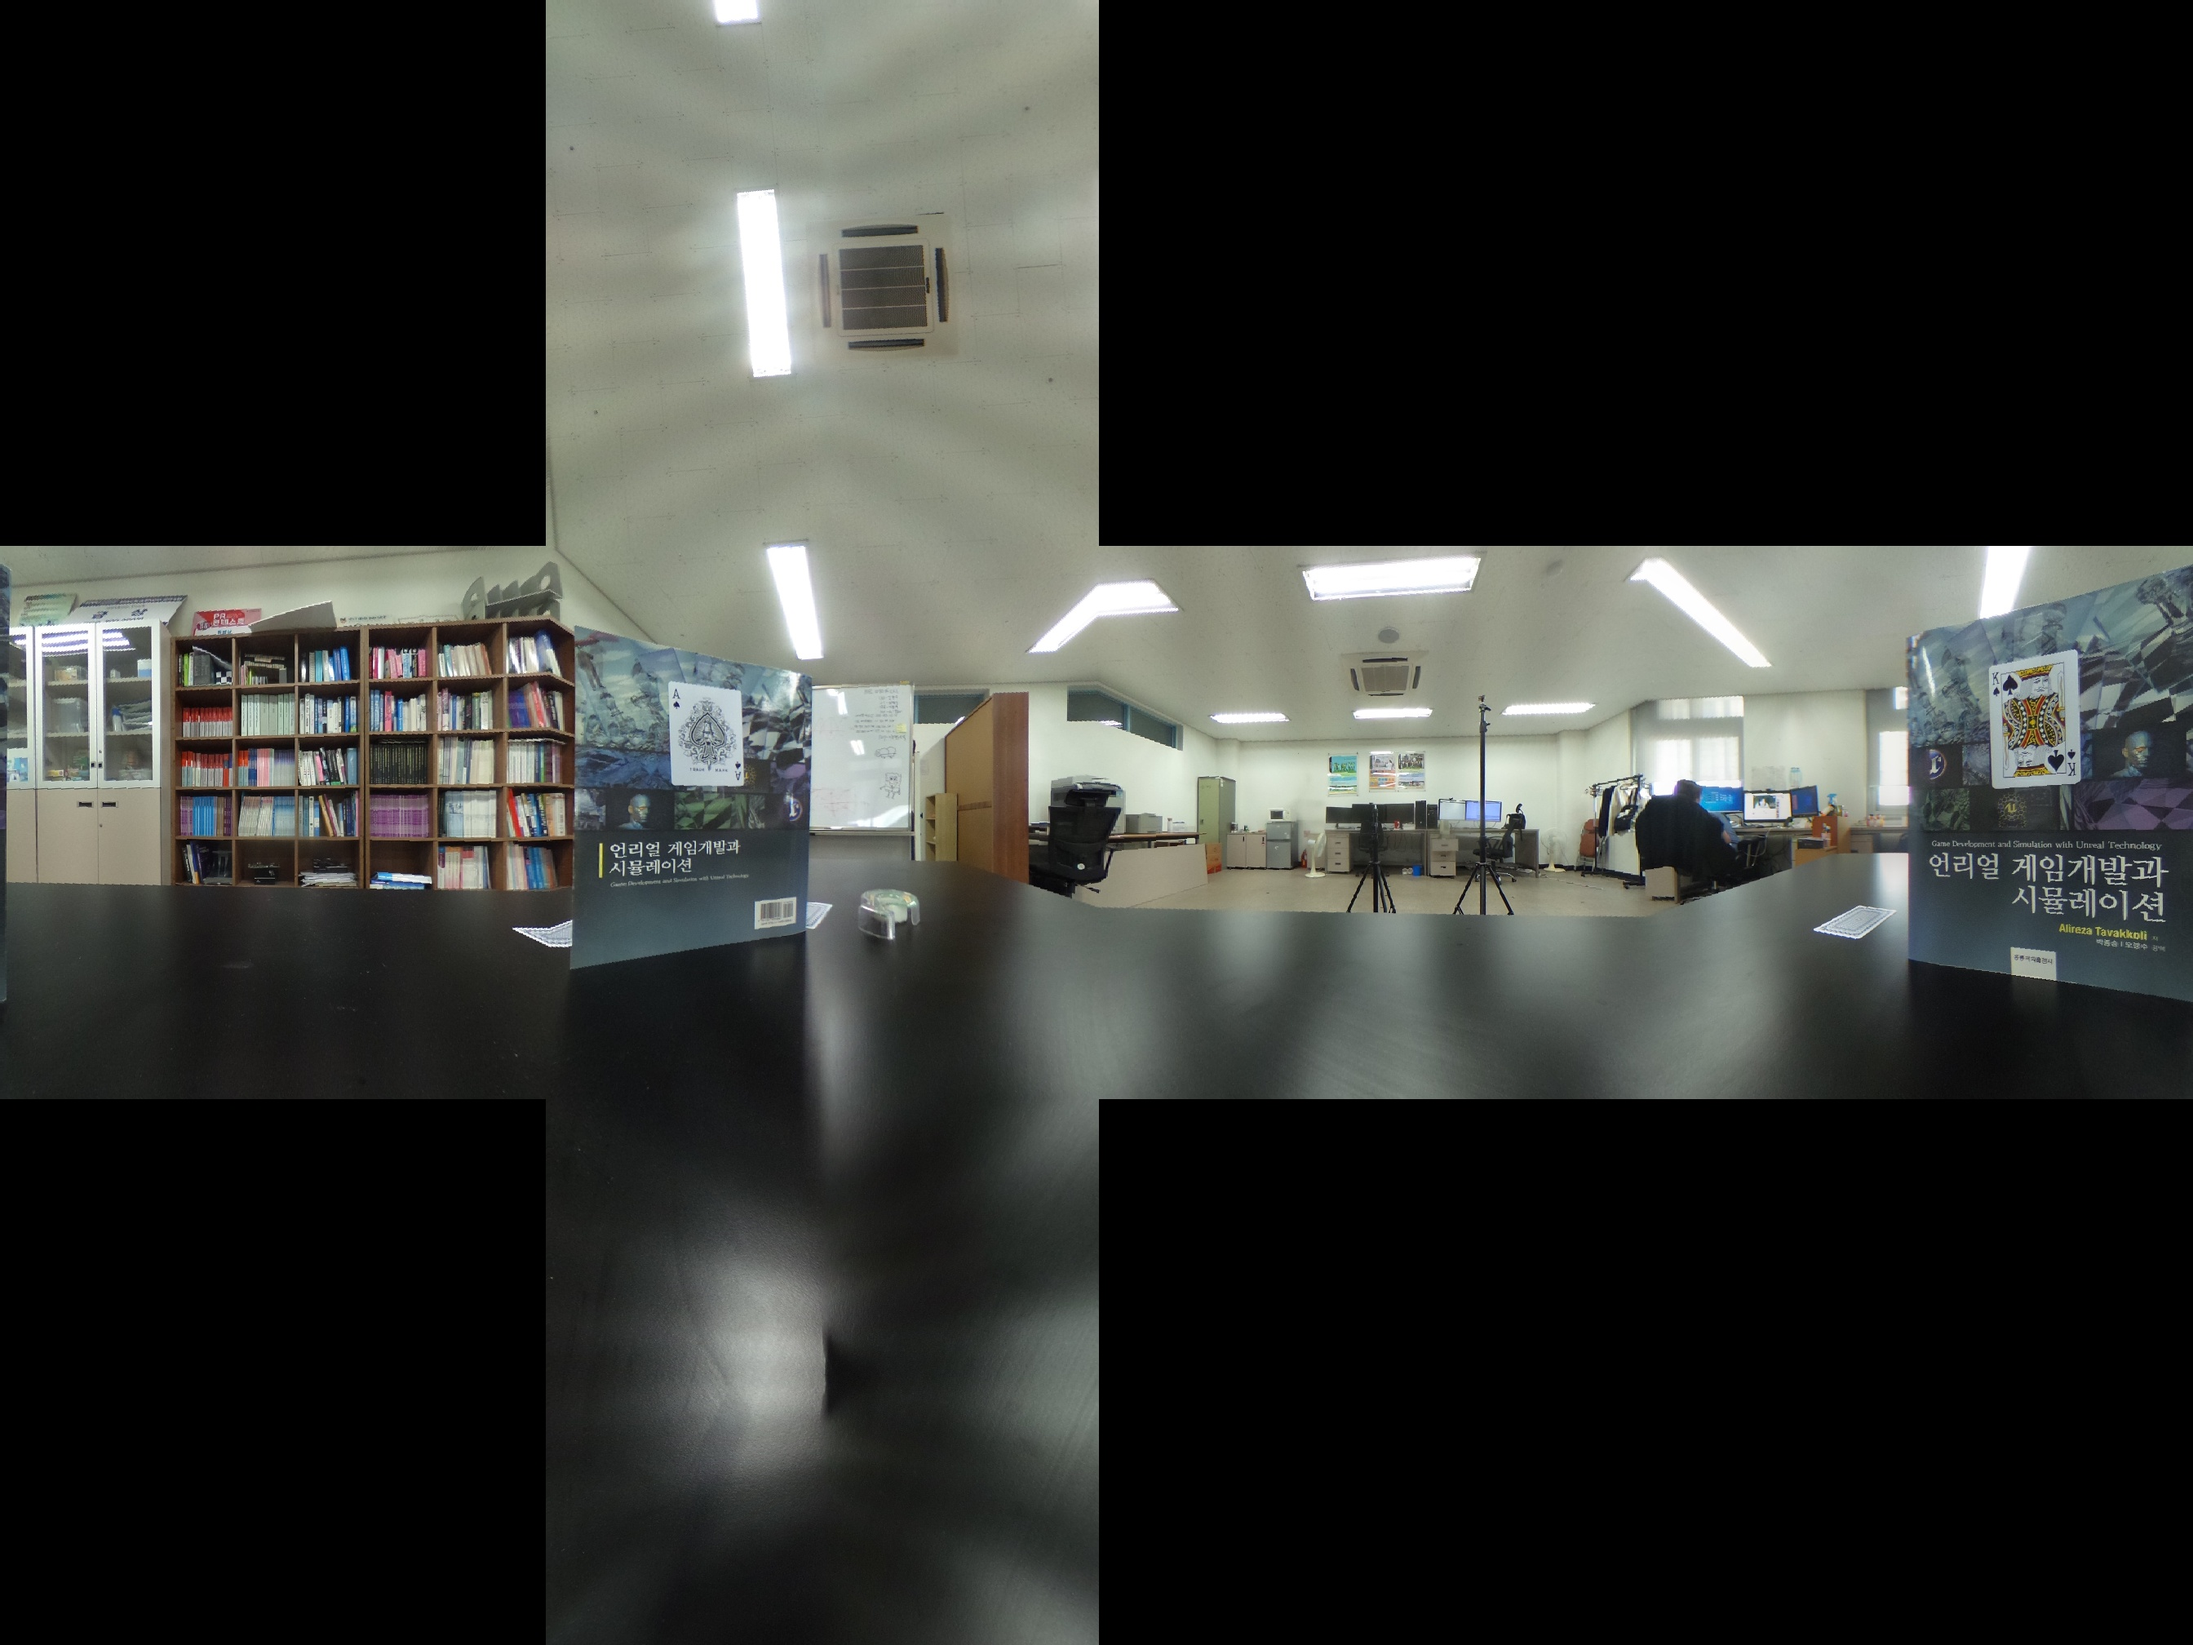
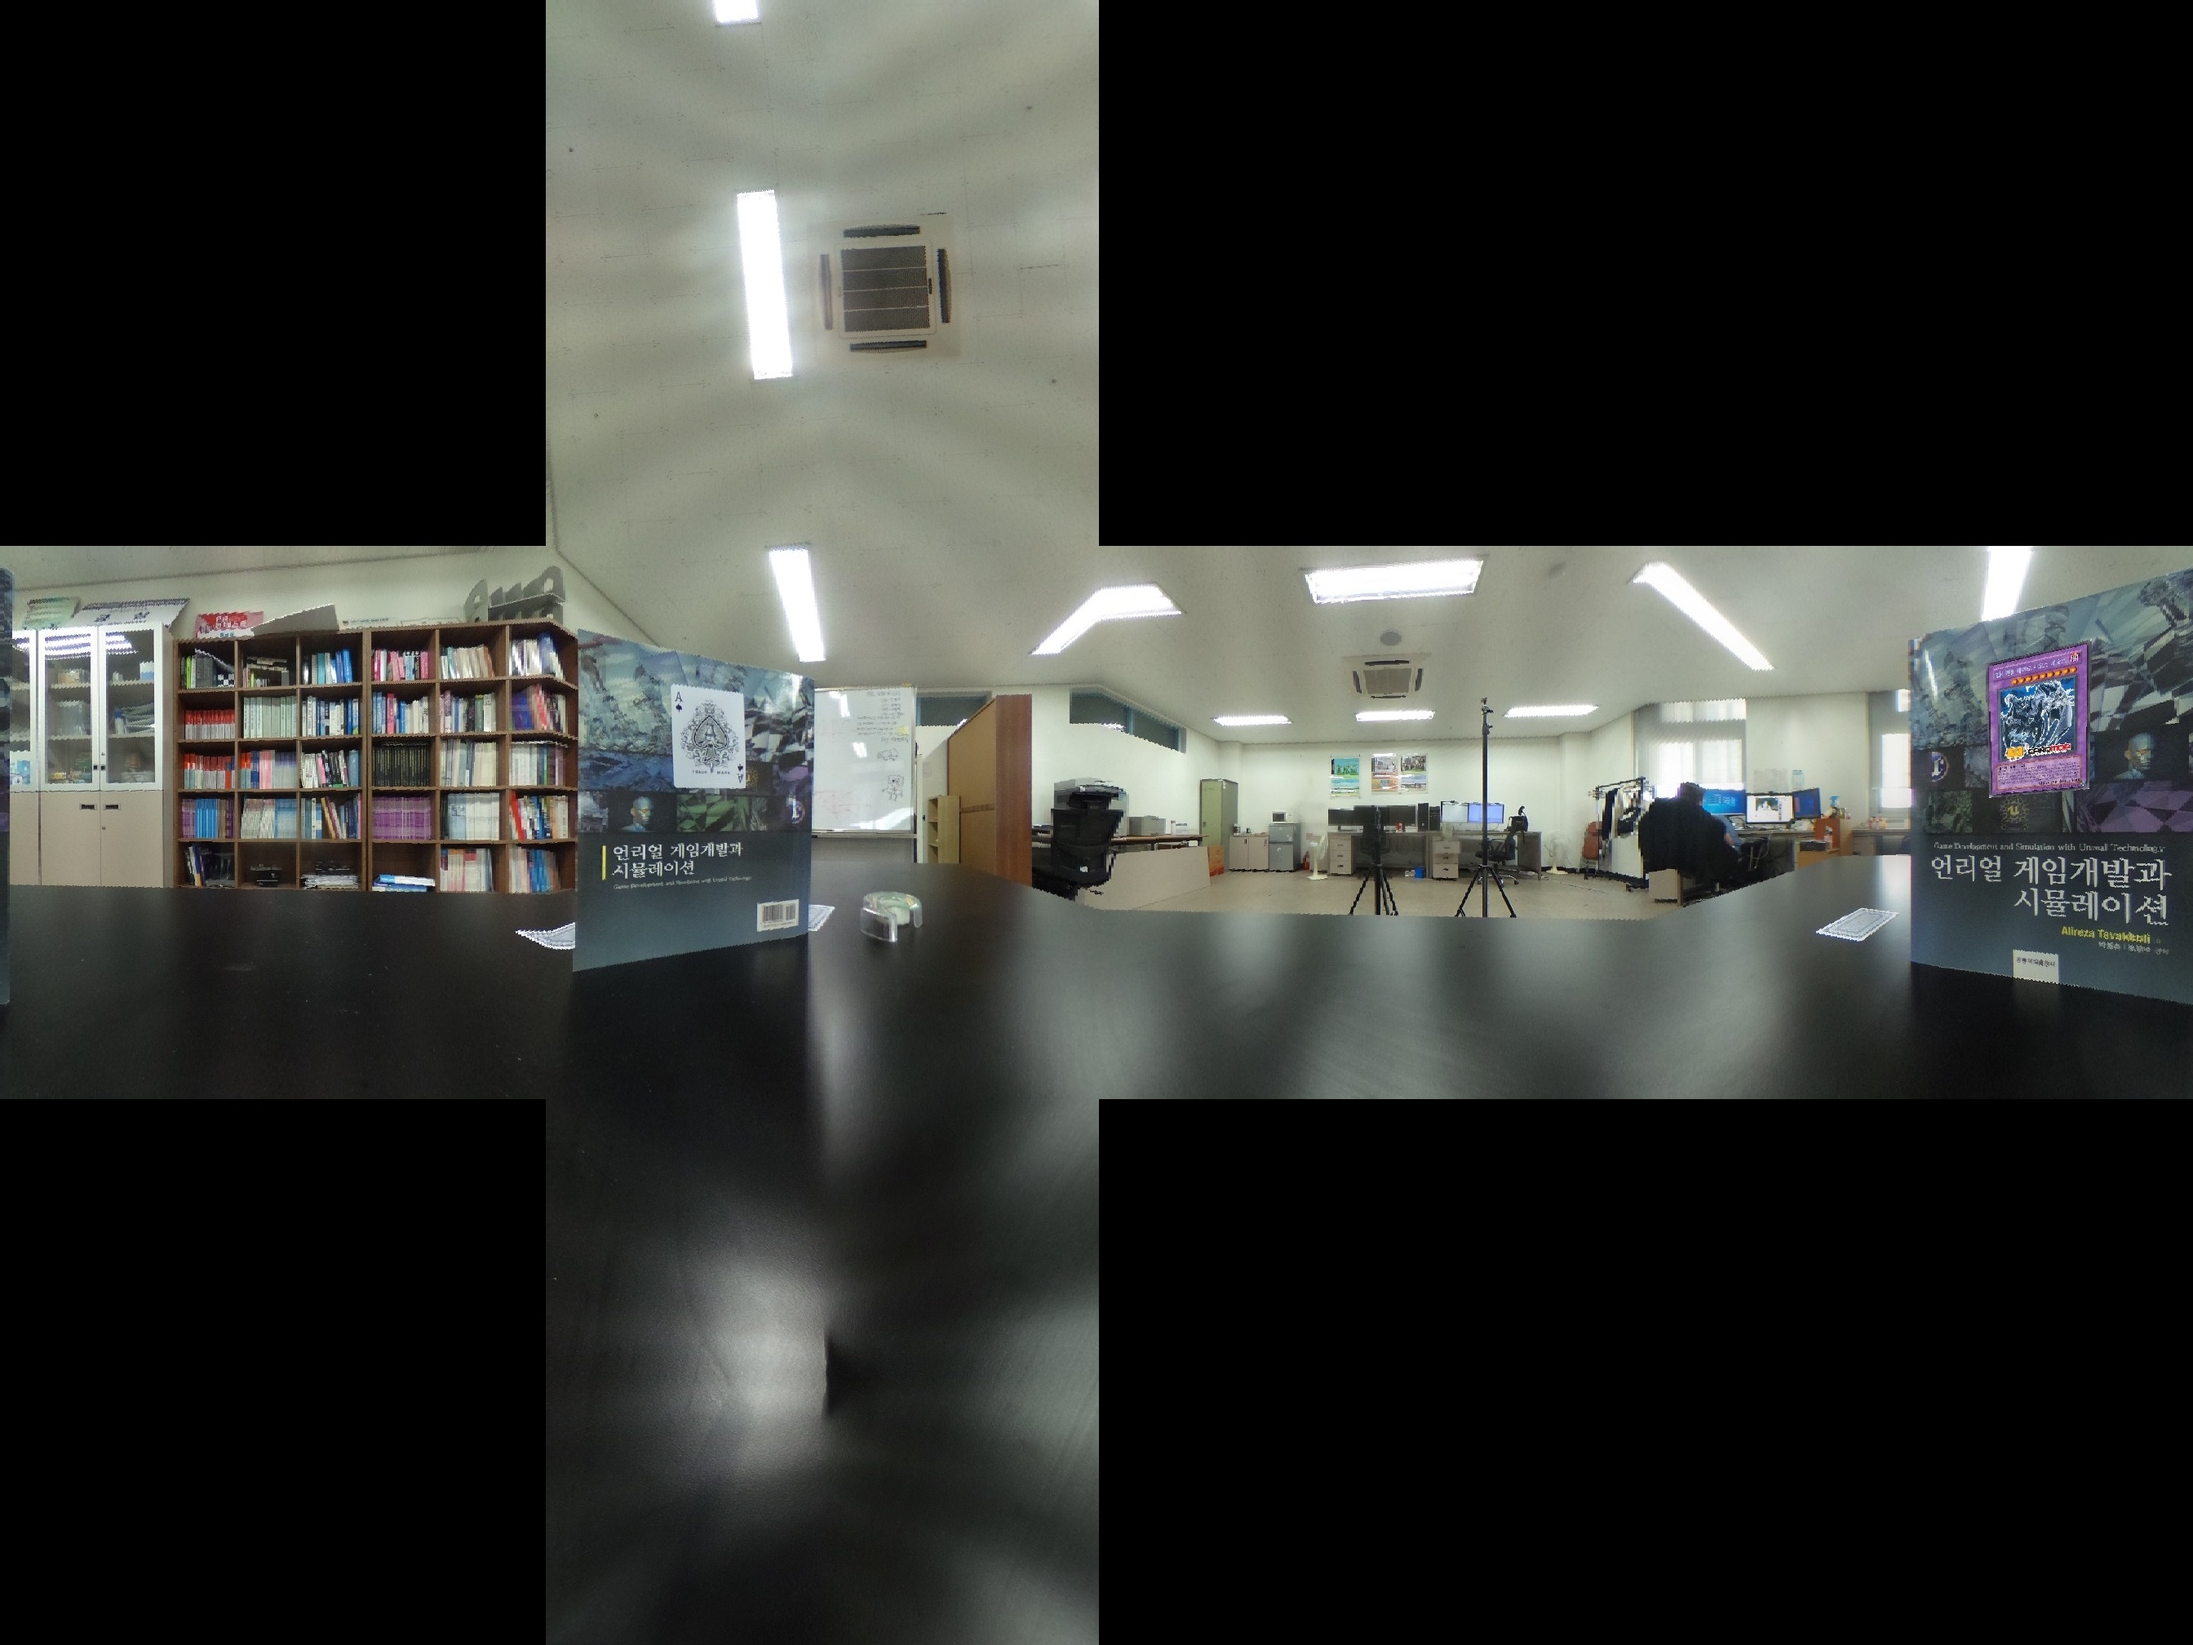
code update

diff --git a/OpenCV/OpenCV.cpp b/OpenCV/OpenCV.cpp
@@ -25,6 +25,18 @@ int64 work_begin = 0;
 int64 work_end = 0;
 
 /*
+	게임 플레이
+*/
+int gameTurns = 2;
+int turn = 0;
+
+struct Player
+{
+	int hp = 30;
+	int damage = 10;
+};
+
+/*
     뷰 영상 출력을 위한 구조체
 */
 struct Axis
@@ -52,18 +64,9 @@ std::vector<Point2f> inverse_corner;
 double yAxisRotate = 0;
 double zAxisRotate = 0;
 
-
-int FrontX = 0, FrontY = 0;
-int BackX = 0, BackY = 0;
-int LeftX = 0, LeftY = 0;
-int RightX = 0, RightY = 0;
-int TopX = 0, TopY = 0;
-int BottomX = 0, BottomY = 0;
-
 vector<Mat> cubemapface[6]; // Back, Left, Front, Right, Top, Bottom
 int faceIndex;
 int indexX, indexY;
-
 
 Axis getNearPixel(Mat Img, int x, int y);
 Mat remapImage(Mat imgIn);
@@ -134,7 +137,6 @@ Mat remapImage(Mat imgIn)
 	return RemapImg;
 
 }
-
 
 /*
 	Generate View
@@ -311,7 +313,6 @@ AxisDouble CalcCubicXYZ(double x, double y, double z)
 
 	return axis;
 }
-
 
 /*
 	1. Spherical -> Cubemap
@@ -509,6 +510,7 @@ Mat CvtCub2Sph(Mat* cube, Mat* original) {
 	{
 		cubemapface->at(i) = remapImage(cubemapface->at(i));
 	}
+	spherical = remapImage(spherical);
 	return spherical;
 }
 Mat CvtSph2Cub(Mat* pano) {
@@ -769,159 +771,196 @@ static Mat drawGoodMatches(
 
 	return img_matches;
 }
+
+void Render()
+{
+	Player A, B;
+	B.hp = 20;
+
+	while (true) {
+		Mat img_text;
+		char attack[30];
+		char defense[30];
+		cubemapface->at(3).copyTo(img_text);
+
+		sprintf_s(attack, "A Attack");
+		sprintf_s(defense, "B Defense");
+
+		putText(img_text, attack, Point(img_text.cols / 12, img_text.rows / 4), 0, 1, Scalar(0, 0, 0), 2, 8);
+		putText(img_text, defense, Point(img_text.cols / 12, img_text.rows / 6), 0, 1, Scalar(0, 0, 0), 2, 8);		
+
+		imageShow("Screen", 300, 300, img_text);
+		imwrite("Screen.jpg", img_text);
+
+		waitKey(0);
+	}
+}
+
 ////////////////////////////////////////////////////
 // This program demonstrates the usage of SURF_OCL.
 // use cpu findHomography interface to calculate the transformation matrix
 int main(int argc, char* argv[])
 {
+	while (turn < gameTurns) {
+		UMat img1, img2;
+		Mat img;
+		Mat srcImage;
+		Mat temp;
+		Mat tempImg;
+		std::string leftName;
 
-	UMat img1, img2;
-
-    /* 파노라마 이미지 불러오기 */
-    Mat img = imread("Panorama2.jpg"); //자신이 저장시킨 이미지 이름이 입력되어야 함, 확장자까지
-    Mat srcImage; 
-    cv::resize(img, srcImage, Size(img.cols * 0.5f, img.rows * 0.5f), 0, 0);
-    
-     /* Mat 선언 */
-    Mat SphericalToCubemap = CvtSph2Cub(&srcImage);
-
-	std::string outpath = "output.jpg";
-    std::string result = "result.jpg";
-	std::string spre = "sph.jpg";
-
-	std::string leftName = "ATrump.jpg";
-
-	imread(leftName, IMREAD_COLOR).copyTo(img1);
-	if (img1.empty())
-	{
-		std::cout << "Couldn't load " << leftName << std::endl;
-		return EXIT_FAILURE;
-	}
-
-    imwrite("scene.jpg", SphericalToCubemap);
-
-	std::string rightName = "scene.jpg";
-	imread(rightName, IMREAD_COLOR).copyTo(img2);
-	if (img2.empty())
-	{
-		std::cout << "Couldn't load " << rightName << std::endl;
-		return EXIT_FAILURE;
-	}
-
-	double surf_time = 0.;
-
-	//declare input/output
-	std::vector<KeyPoint> keypoints1, keypoints2;
-	std::vector<DMatch> matches;
-
-	UMat _descriptors1, _descriptors2;
-	Mat descriptors1 = _descriptors1.getMat(ACCESS_RW),
-		descriptors2 = _descriptors2.getMat(ACCESS_RW);
-
-	//instantiate detectors/matchers
-	SURFDetector surf;
-	SURFMatcher<BFMatcher> matcher;
-
-	//-- start of timing section
-
-	for (int i = 0; i <= LOOP_NUM; i++)
-	{
-		if (i == 1) workBegin();
-		surf(img1.getMat(ACCESS_READ), Mat(), keypoints1, descriptors1);
-		surf(img2.getMat(ACCESS_READ), Mat(), keypoints2, descriptors2);
-		matcher.match(descriptors1, descriptors2, matches);
-	}
-	workEnd();
-	std::cout << "FOUND " << keypoints1.size() << " keypoints on first image" << std::endl;
-	std::cout << "FOUND " << keypoints2.size() << " keypoints on second image" << std::endl;
-
-	surf_time = getTime();
-	std::cout << "SURF run time: " << surf_time / LOOP_NUM << " ms" << std::endl << "\n";
-
-
-	std::vector<Point2f> corner;
-	Mat img_matches = drawGoodMatches(img1.getMat(ACCESS_READ), img2.getMat(ACCESS_READ), keypoints1, keypoints2, matches, corner);
-	line(img_matches, inverse_corner[0], inverse_corner[1], Scalar(0, 255, 0), 2, LINE_AA);
-	line(img_matches, inverse_corner[1], inverse_corner[2], Scalar(0, 255, 0), 2, LINE_AA);
-	line(img_matches, inverse_corner[2], inverse_corner[3], Scalar(0, 255, 0), 2, LINE_AA);
-	line(img_matches, inverse_corner[3], inverse_corner[0], Scalar(0, 255, 0), 2, LINE_AA);
-	//-- Show detected matches
-	imageShow("surf matches", 1200, 800, img_matches);
-	imwrite(outpath, img_matches);
-
-	// 일치하는 오브젝트 위치 표시하는 사각형 그리기
-
-	float minX = min(min(corner[0].x, corner[1].x), min(corner[2].x, corner[3].x));
-	float minY = min(min(corner[0].y, corner[1].y), min(corner[2].y, corner[3].y));
-
-	float maxX = max(max(corner[0].x, corner[1].x), max(corner[2].x, corner[3].x));
-	float maxY = max(max(corner[0].y, corner[1].y), max(corner[2].y, corner[3].y));
-
-	Point2f leftTop = Point2f(minX, minY);
-	Point2f rightBottom = Point2f(maxX, maxY);
-
-	/*
-		큐브맵 이미지의 패턴 영역 그리기
-	*/
-	line(img2, corner[0], corner[1], Scalar(0, 0, 255), 2, LINE_AA);
-	line(img2, corner[1], corner[2], Scalar(0, 0, 255), 2, LINE_AA);
-	line(img2, corner[2], corner[3], Scalar(0, 0, 255), 2, LINE_AA);
-	line(img2, corner[3], corner[0], Scalar(0, 0, 255), 2, LINE_AA);
-
-	/*
-		큐브맵 이미지 패턴 영역의 바운딩 박스 그리기
-	*/
-	line(img2, leftTop, Point2f(rightBottom.x, leftTop.y), Scalar(0, 255, 0), 2, LINE_AA);
-	line(img2, Point2f(rightBottom.x, leftTop.y), rightBottom, Scalar(0, 255, 0), 2, LINE_AA);
-	line(img2, rightBottom, Point2f(leftTop.x, rightBottom.y), Scalar(0, 255, 0), 2, LINE_AA);
-	line(img2, Point2f(leftTop.x, rightBottom.y), leftTop, Scalar(0, 255, 0), 2, LINE_AA);
-	imageShow("draw square", 1200, 800, img2);
-
-	int width, height;
-	width = rightBottom.x - leftTop.x;
-	height = rightBottom.y - leftTop.y;
-
-	Mat temp = imread("Bcard.jpg");
-	Mat tempImg;
-
-	cv::resize(temp, tempImg, Size(img1.cols, img1.rows), 0, 0);
-	
-	for (int y = leftTop.y; y < rightBottom.y; y++)
-	{
-		for (int x = leftTop.x; x < rightBottom.x; x++)
+		/* 파노라마 이미지 불러오기 */
+		if (turn == 0)
 		{
-			if (y > topEquation(x, corner) && y < bottom(x, corner) && x > left(y, corner) && x < right(y, corner))
-			{
-				vector<Point2f> xy(1), convert(1);
-				xy[0] = Point(x, y);
+			img = imread("Panorama2.jpg"); //자신이 저장시킨 이미지 이름이 입력되어야 함, 확장자까지
+			cv::resize(img, srcImage, Size(img.cols * 0.5f, img.rows * 0.5f), 0, 0);
+			leftName = "ATrump.jpg";
+			temp = imread("Acard.jpg");
+		}
+		else if (turn == 1)
+		{
+			img = imread("sph.jpg");
+			cv::resize(img, srcImage, Size(img.cols * 1.0f, img.rows * 1.0f), 0, 0);
+			leftName = "BTrump.png";
+			temp = imread("Bcard.jpg");
+		}
+		else
+		{
+			cout << "Background is not available" << endl;
+			return 0;
+		}
 
-				perspectiveTransform(xy, convert, inverse);
-				SphericalToCubemap.at<Vec3b>(y, x) = tempImg.at<Vec3b>(int(convert[0].y), int(convert[0].x));
+
+		/* Mat 선언 */
+		Mat SphericalToCubemap = CvtSph2Cub(&srcImage);
+
+		std::string outpath = "output.jpg";
+		std::string result = "result.jpg";
+
+		imread(leftName, IMREAD_COLOR).copyTo(img1);
+		if (img1.empty())
+		{
+			std::cout << "Couldn't load " << leftName << std::endl;
+			return EXIT_FAILURE;
+		}
+
+		imwrite("scene.jpg", SphericalToCubemap);
+
+		std::string rightName = "scene.jpg";
+		imread(rightName, IMREAD_COLOR).copyTo(img2);
+		if (img2.empty())
+		{
+			std::cout << "Couldn't load " << rightName << std::endl;
+			return EXIT_FAILURE;
+		}
+
+		double surf_time = 0.;
+
+		//declare input/output
+		std::vector<KeyPoint> keypoints1, keypoints2;
+		std::vector<DMatch> matches;
+
+		UMat _descriptors1, _descriptors2;
+		Mat descriptors1 = _descriptors1.getMat(ACCESS_RW),
+			descriptors2 = _descriptors2.getMat(ACCESS_RW);
+
+		//instantiate detectors/matchers
+		SURFDetector surf;
+		SURFMatcher<BFMatcher> matcher;
+
+		//-- start of timing section
+
+		for (int i = 0; i <= LOOP_NUM; i++)
+		{
+			if (i == 1) workBegin();
+			surf(img1.getMat(ACCESS_READ), Mat(), keypoints1, descriptors1);
+			surf(img2.getMat(ACCESS_READ), Mat(), keypoints2, descriptors2);
+			matcher.match(descriptors1, descriptors2, matches);
+		}
+		workEnd();
+		std::cout << "FOUND " << keypoints1.size() << " keypoints on first image" << std::endl;
+		std::cout << "FOUND " << keypoints2.size() << " keypoints on second image" << std::endl;
+
+		surf_time = getTime();
+		std::cout << "SURF run time: " << surf_time / LOOP_NUM << " ms" << std::endl << "\n";
+
+
+		std::vector<Point2f> corner;
+		Mat img_matches = drawGoodMatches(img1.getMat(ACCESS_READ), img2.getMat(ACCESS_READ), keypoints1, keypoints2, matches, corner);
+		line(img_matches, inverse_corner[0], inverse_corner[1], Scalar(0, 255, 0), 2, LINE_AA);
+		line(img_matches, inverse_corner[1], inverse_corner[2], Scalar(0, 255, 0), 2, LINE_AA);
+		line(img_matches, inverse_corner[2], inverse_corner[3], Scalar(0, 255, 0), 2, LINE_AA);
+		line(img_matches, inverse_corner[3], inverse_corner[0], Scalar(0, 255, 0), 2, LINE_AA);
+		//-- Show detected matches
+		imageShow("surf matches", 1200, 800, img_matches);
+		imwrite(outpath, img_matches);
+
+		// 일치하는 오브젝트 위치 표시하는 사각형 그리기
+
+		float minX = min(min(corner[0].x, corner[1].x), min(corner[2].x, corner[3].x));
+		float minY = min(min(corner[0].y, corner[1].y), min(corner[2].y, corner[3].y));
+
+		float maxX = max(max(corner[0].x, corner[1].x), max(corner[2].x, corner[3].x));
+		float maxY = max(max(corner[0].y, corner[1].y), max(corner[2].y, corner[3].y));
+
+		Point2f leftTop = Point2f(minX, minY);
+		Point2f rightBottom = Point2f(maxX, maxY);
+
+		/*
+			큐브맵 이미지의 패턴 영역 그리기
+		*/
+		line(img2, corner[0], corner[1], Scalar(0, 0, 255), 2, LINE_AA);
+		line(img2, corner[1], corner[2], Scalar(0, 0, 255), 2, LINE_AA);
+		line(img2, corner[2], corner[3], Scalar(0, 0, 255), 2, LINE_AA);
+		line(img2, corner[3], corner[0], Scalar(0, 0, 255), 2, LINE_AA);
+
+		/*
+			큐브맵 이미지 패턴 영역의 바운딩 박스 그리기
+		*/
+		line(img2, leftTop, Point2f(rightBottom.x, leftTop.y), Scalar(0, 255, 0), 2, LINE_AA);
+		line(img2, Point2f(rightBottom.x, leftTop.y), rightBottom, Scalar(0, 255, 0), 2, LINE_AA);
+		line(img2, rightBottom, Point2f(leftTop.x, rightBottom.y), Scalar(0, 255, 0), 2, LINE_AA);
+		line(img2, Point2f(leftTop.x, rightBottom.y), leftTop, Scalar(0, 255, 0), 2, LINE_AA);
+		//imageShow("draw square", 1200, 800, img2);
+
+		int width, height;
+		width = rightBottom.x - leftTop.x;
+		height = rightBottom.y - leftTop.y;
+
+
+		cv::resize(temp, tempImg, Size(img1.cols, img1.rows), 0, 0);
+
+		for (int y = leftTop.y; y < rightBottom.y; y++)
+		{
+			for (int x = leftTop.x; x < rightBottom.x; x++)
+			{
+				if (y > topEquation(x, corner) && y < bottom(x, corner) && x > left(y, corner) && x < right(y, corner))
+				{
+					vector<Point2f> xy(1), convert(1);
+					xy[0] = Point(x, y);
+
+					perspectiveTransform(xy, convert, inverse);
+					SphericalToCubemap.at<Vec3b>(y, x) = tempImg.at<Vec3b>(int(convert[0].y), int(convert[0].x));
+				}
 			}
 		}
+
+
+		imwrite(result, SphericalToCubemap);
+		Mat matched_Cubemap = imread("result.jpg");
+		//imageShow("matched cubemap Image", 1200, 800, matched_Cubemap);
+
+		Mat resultSph = CvtCub2Sph(&matched_Cubemap, &srcImage);
+		//imageShow("Spherical Image", 1200, 600, resultSph);
+		imwrite("sph.jpg", resultSph);
+		turn++;
 	}
-    
 
-	imwrite(result, SphericalToCubemap);
-    Mat matched_Cubemap = imread("result.jpg");
-	imageShow("matched cubemap Image", 1200, 800, matched_Cubemap);
-
-    Mat resultSph = CvtCub2Sph(&matched_Cubemap, &srcImage);
-	imageShow("Spherical Image", 1200, 600, resultSph);
-	imwrite(spre, resultSph);
 	/* 
-		공격 텍스트 작성
+		게임 Render
 	*/
-	Mat img_text;
-	char attack[30];
-	cubemapface->at(3).copyTo(img_text);
-	sprintf_s(attack, "1st Attack");
-	putText(img_text, attack, Point(img_text.cols / 12, img_text.rows / 4), 0, 1, Scalar(0, 0, 0), 2, 8);
+	
+	Render();
 
-	imageShow("attack", 300, 300, img_text);
-	imwrite("attack.jpg", img_text);
-	//GenView(resultSph);
-
-	waitKey(0);
 	return EXIT_SUCCESS;
 }
